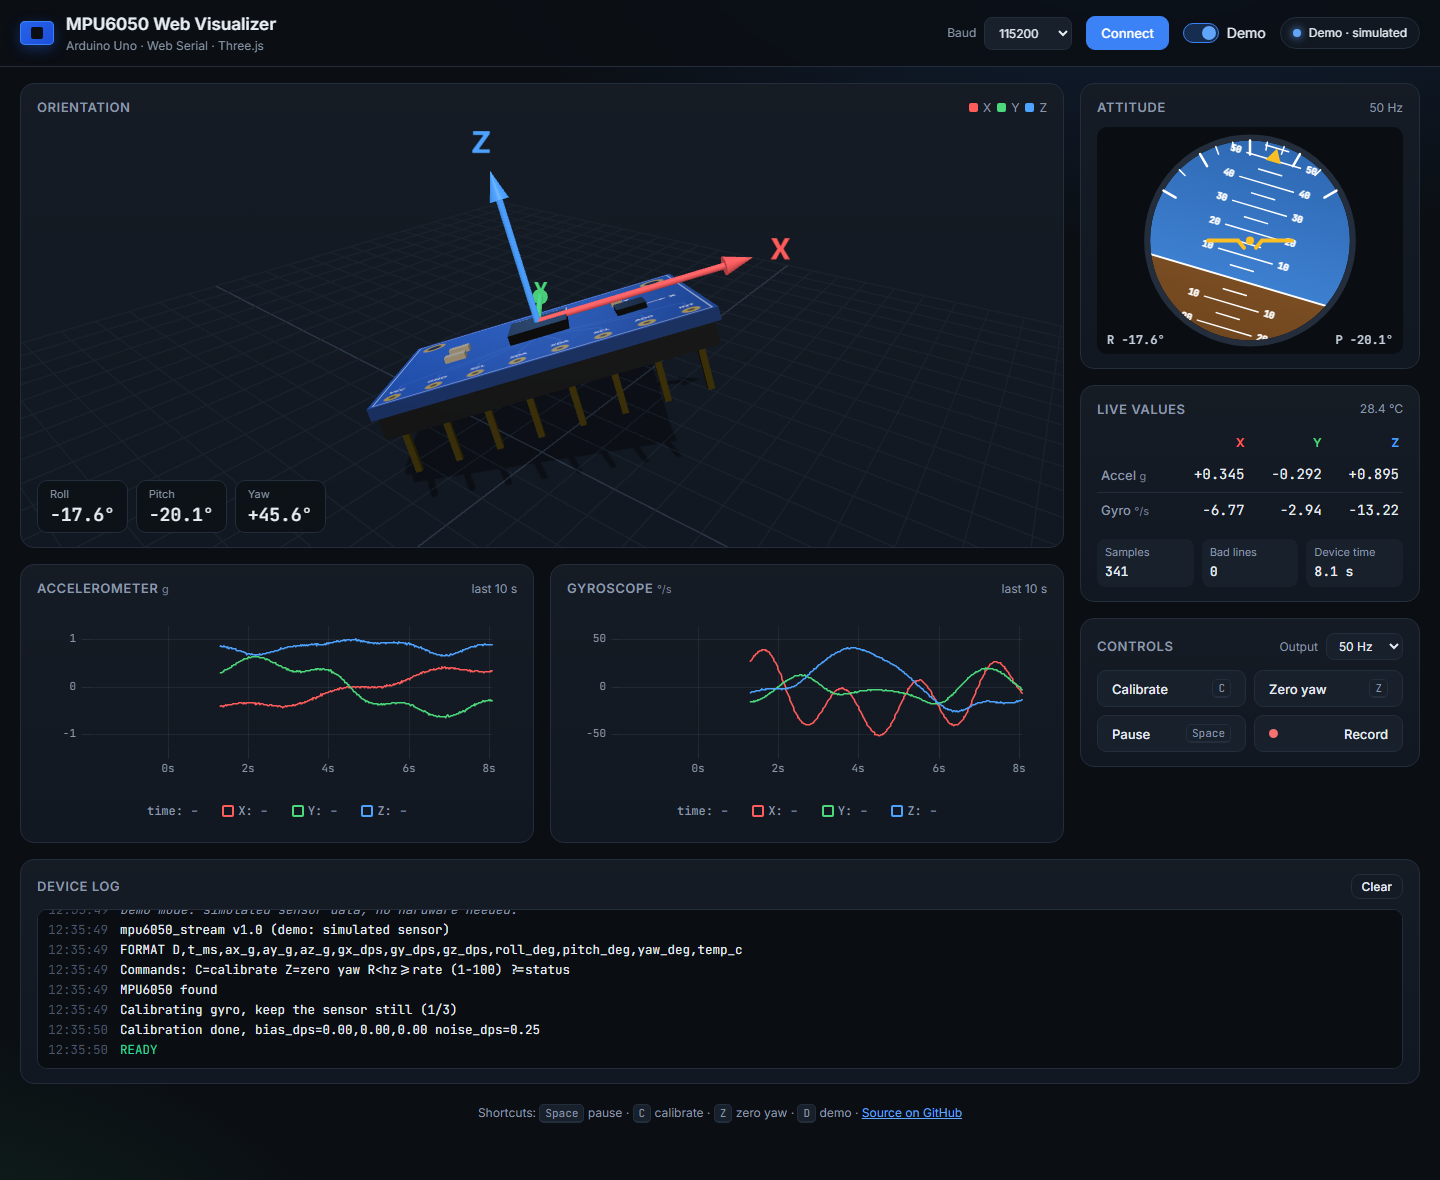
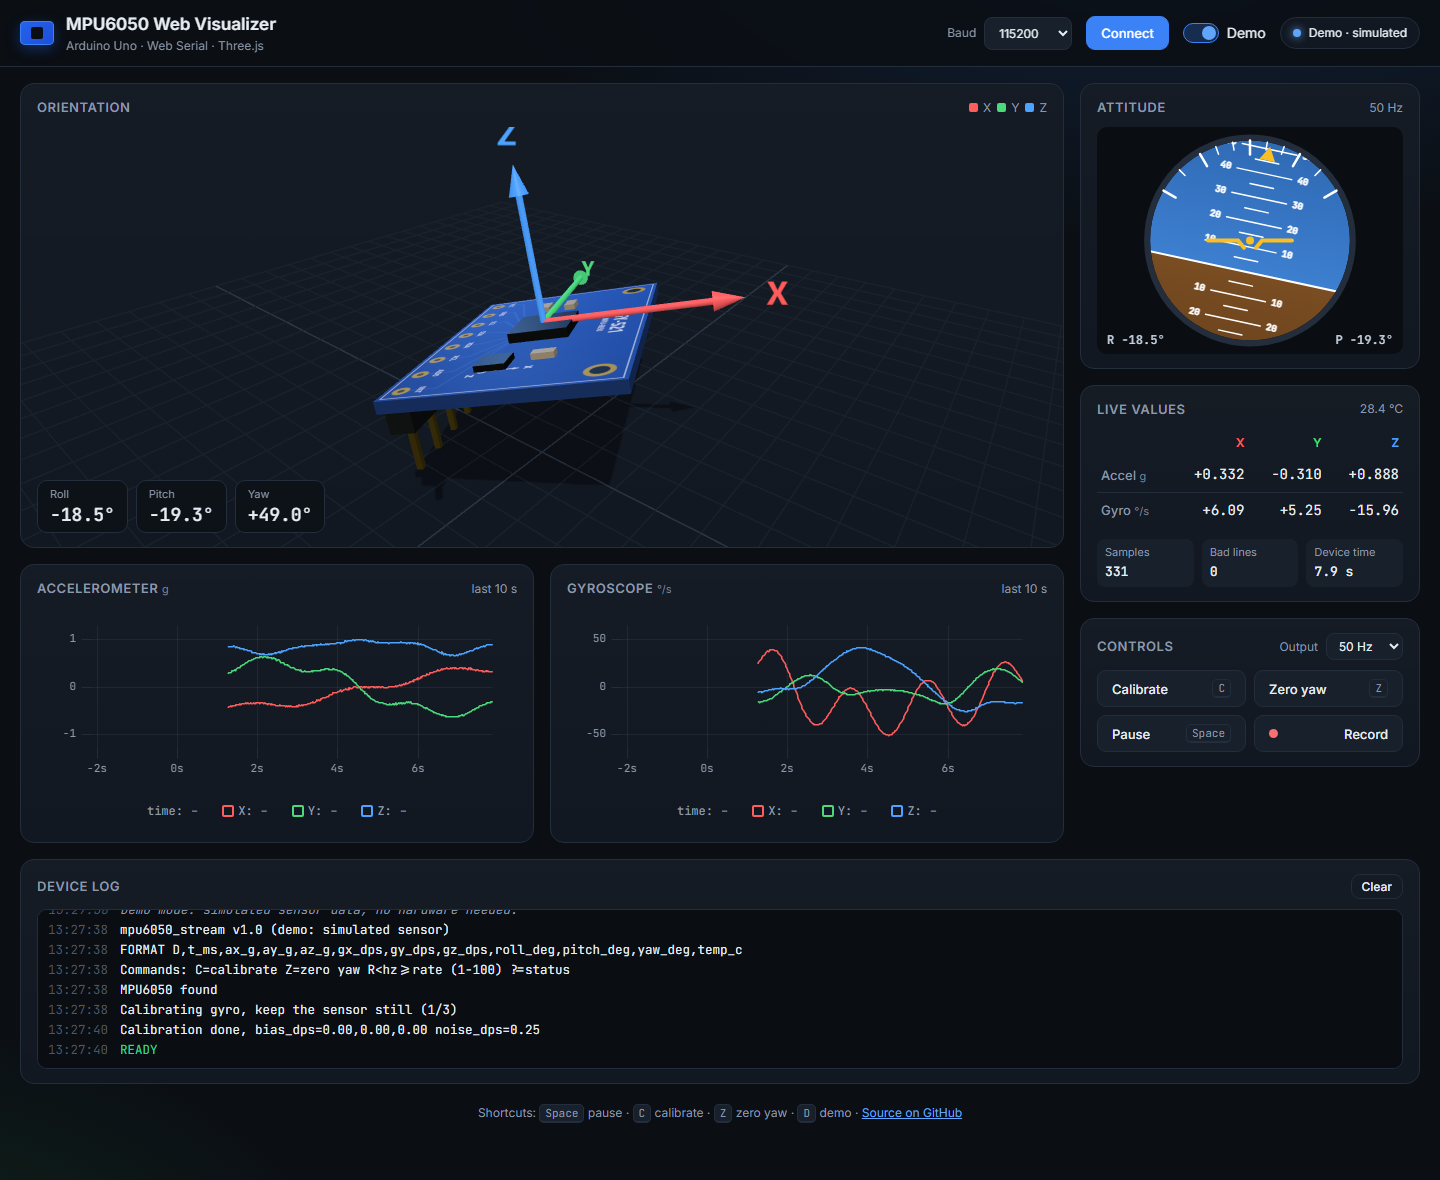
Align 3D board axes with the physical GY-521 (X away from header, Y along pins)

diff --git a/web/js/scene3d.js b/web/js/scene3d.js
@@ -98,7 +98,8 @@ export class BoardScene {
   }
 
   #buildBoard() {
-    const group = new THREE.Group();
+    const board = new THREE.Group();   // sensor frame: rotated by setAttitude()
+    const group = new THREE.Group();   // PCB drawing, header along its near (+Z) edge
     const { w, t, d } = BOARD;
 
     // PCB: textured top, plain edges.
@@ -130,12 +131,20 @@ export class BoardScene {
 
     group.add(makeHeader(t, d));
 
-    // Body-fixed axis arrows, starting at the chip.
-    const origin = new THREE.Vector3(0, t / 2 + 0.1, texToZ(336));
-    group.add(makeArrow(new THREE.Vector3(1, 0, 0), origin, 2.3, AXIS_COLORS.x, 'X'));
-    group.add(makeArrow(new THREE.Vector3(0, 0, -1), origin, 1.9, AXIS_COLORS.y, 'Y'));
-    group.add(makeArrow(new THREE.Vector3(0, 1, 0), origin, 1.6, AXIS_COLORS.z, 'Z'));
-    return group;
+    // Place the PCB the way the chip sits on a real GY-521: sensor +X points
+    // across the board away from the pin header, sensor +Y runs along the
+    // header row (toward the VCC end). Turning the drawing -90° about the
+    // vertical puts the header on the scene's -X side.
+    group.rotation.y = -Math.PI / 2;
+    board.add(group);
+
+    // Body-fixed axis arrows in the sensor frame, starting at the chip.
+    const origin = new THREE.Vector3(0, t / 2 + 0.1, texToZ(336))
+      .applyAxisAngle(new THREE.Vector3(0, 1, 0), -Math.PI / 2);
+    board.add(makeArrow(new THREE.Vector3(1, 0, 0), origin, 2.0, AXIS_COLORS.x, 'X'));
+    board.add(makeArrow(new THREE.Vector3(0, 0, -1), origin, 2.4, AXIS_COLORS.y, 'Y'));
+    board.add(makeArrow(new THREE.Vector3(0, 1, 0), origin, 1.6, AXIS_COLORS.z, 'Z'));
+    return board;
   }
 }
 
@@ -268,8 +277,8 @@ function makePcbTexture() {
     g.beginPath(); g.arc(x, 650, 11, 0, Math.PI * 2); g.fill();
   });
 
-  // Axis legend as printed on real boards: X right, Y up (away), Z out of board
-  drawSilkAxes(g, 820, 400);
+  // Axis legend as printed on the GY-521: X away from the header, Y toward VCC
+  drawSilkAxes(g, 860, 440);
 
   const tex = new THREE.CanvasTexture(c);
   tex.colorSpace = THREE.SRGBColorSpace;
@@ -289,12 +298,12 @@ function drawSilkAxes(g, x, y) {
     g.lineTo(x2 - 18 * Math.cos(a + 0.45), y2 - 18 * Math.sin(a + 0.45));
     g.fill();
   };
-  arrow(x + 110, y);
-  arrow(x, y - 110);
+  arrow(x, y - 110);   // X: up in the texture = away from the header
+  arrow(x - 110, y);   // Y: left in the texture = toward VCC
   g.beginPath(); g.arc(x, y, 12, 0, Math.PI * 2); g.stroke();
   g.beginPath(); g.arc(x, y, 4, 0, Math.PI * 2); g.fill();
   g.font = '700 32px Inter, system-ui, sans-serif';
-  g.fillText('X', x + 135, y + 11);
-  g.fillText('Y', x, y - 128);
-  g.fillText('Z', x - 30, y + 40);
+  g.fillText('X', x, y - 128);
+  g.fillText('Y', x - 138, y + 11);
+  g.fillText('Z', x + 30, y + 40);
 }
